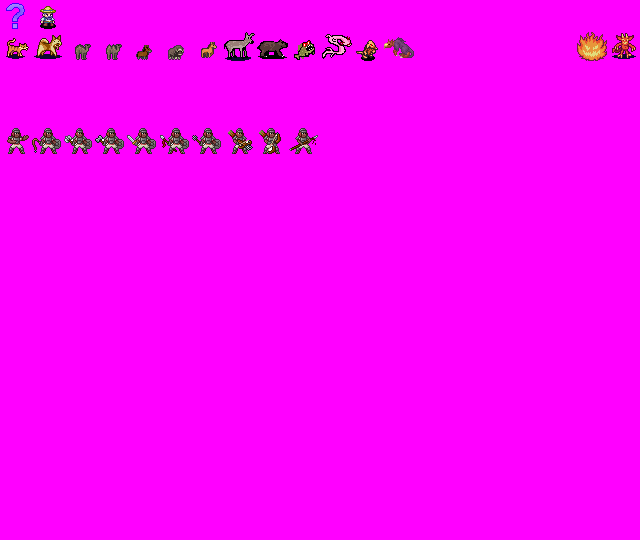
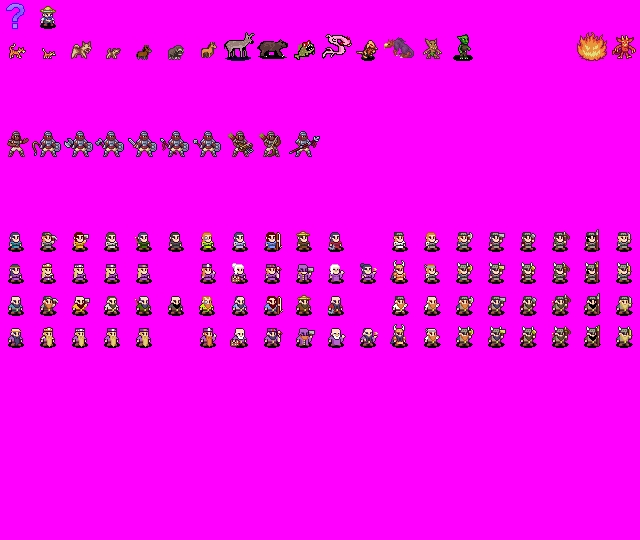
Added about 80 dwarfs... And a goblin and a Kobold,

diff --git a/trunk/MapLoading.cpp b/trunk/MapLoading.cpp
@@ -81,19 +81,16 @@ bool isBlockOnVisisbleEdgeOfSegment(WorldSegment* segment, Block* b){
     b->x == segment->x + segment->sizex - 1 || b->y == segment->y + segment->sizey - 1 ))
   {
       return true;
-  }else 
-  if(DisplayedRotation == 1 && (
+  }else if(DisplayedRotation == 1 && (
     b->x == segment->x + segment->sizex - 1 || b->y == segment->y ))
   {
       return true;
-  }else 
-  if(DisplayedRotation == 2 && (
+  }else if(DisplayedRotation == 2 && (
     b->x == segment->x || b->y == segment->y ))
   {
       return true;
   }
-  else 
-  if(DisplayedRotation == 3 && (
+  else if(DisplayedRotation == 3 && (
     b->x == segment->x || b->y == segment->y + segment->sizey - 1  ))
   {
       return true;

diff --git a/trunk/CreatureConfiguration.cpp b/trunk/CreatureConfiguration.cpp
@@ -38,6 +38,15 @@ void DumpCreatureNamesToDisk(){
   }
   fclose(fp);
 }
+void DumpProfessionsToDisk(){
+  FILE* fp = fopen("dump.txt", "w");
+  if(!fp) return;
+  string proffStr;
+  for(int j=0; (proffStr = dfMemoryInfo.getProfession(j)) != "" ; j++){
+    fprintf(fp, "%i:%s\n",j, proffStr.c_str());
+  }
+  fclose(fp);
+}
 
 void TranslateCreatureNames(){
   uint32_t numCreatures = (uint32_t)v_creatureNames.size();

diff --git a/trunk/Block.cpp b/trunk/Block.cpp
@@ -174,7 +174,7 @@ void Block::Draw(BITMAP* target){
 		int spriteNum = 0;
     int waterlevel = water.index;
 
-    if(waterlevel == 7) waterlevel--;
+    //if(waterlevel == 7) waterlevel--;
 
 		if(water.type == 0)
 			spriteNum = SPRITEOBJECT_WATERLEVEL1 + waterlevel - 1;

diff --git a/trunk/GUI.cpp b/trunk/GUI.cpp
@@ -206,7 +206,7 @@ void DrawSpriteIndexOverlay(int imageIndex){
   }
   else
   {
-    if( imageIndex >= IMGFilelist.size()) 
+    if( imageIndex >= (int)IMGFilelist.size()) 
       return;
 	  currentImage=IMGFilelist[imageIndex];
   }
